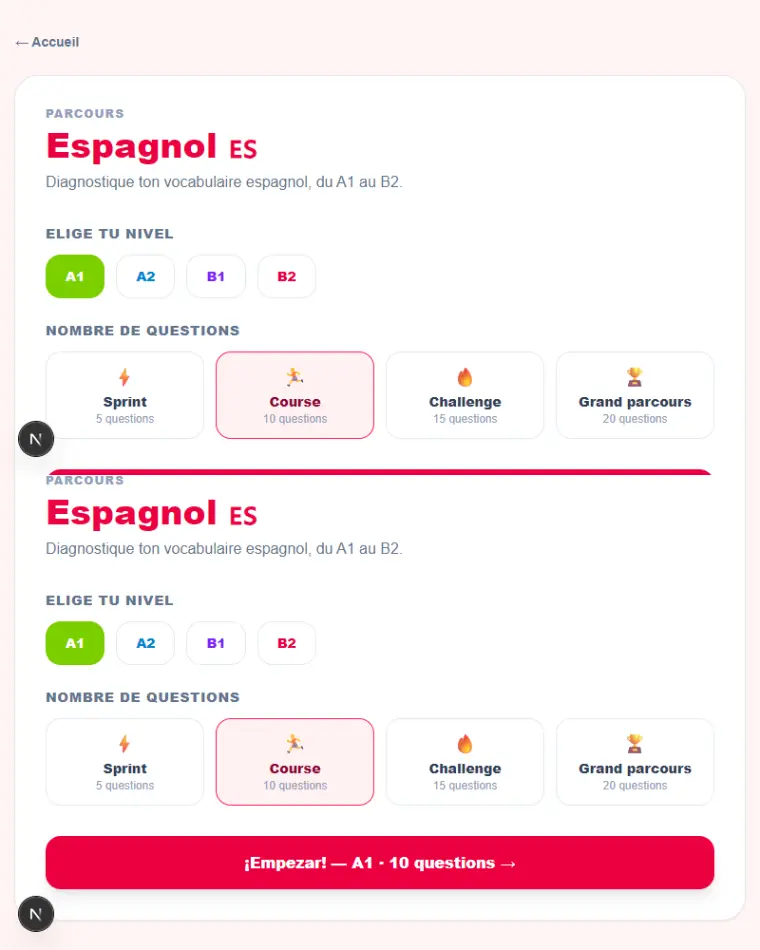
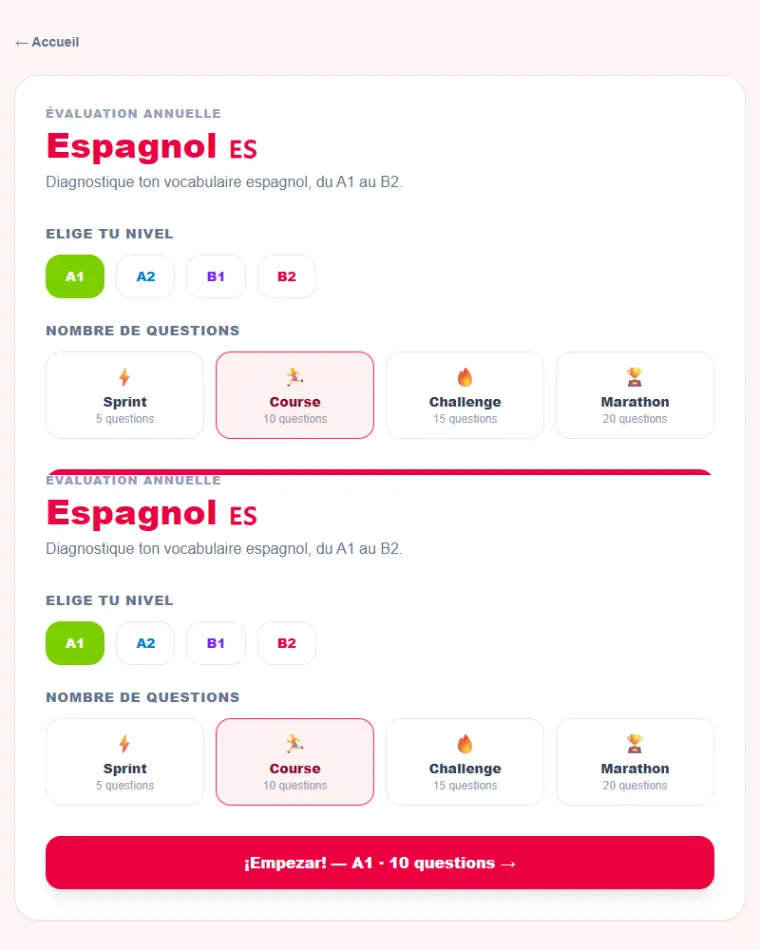
Évaluations : « parcours » n'est plus un libellé, et les cinq aperçus sont refaits
Français, anglais, espagnol et IA suivent la page de maths : « Marathon » au
lieu de « Grand parcours », « Refaire une évaluation » au lieu de « Nouveau
parcours » (« Retake the assessment » sur la page anglaise). Les aperçus de
survol des cinq cartes d'évaluation de l'accueil sont recapturés : celui de
maths montrait encore « Ton voyage mathématiques ».

diff --git a/app/parcours-espagnol/ParcoursEspagnolClient.tsx b/app/parcours-espagnol/ParcoursEspagnolClient.tsx
@@ -33,7 +33,7 @@ const questionCountOptions = [
   { value: 5,  label: "Sprint",         emoji: "⚡", description: "5 questions" },
   { value: 10, label: "Course",         emoji: "🏃", description: "10 questions" },
   { value: 15, label: "Challenge",      emoji: "🔥", description: "15 questions" },
-  { value: 20, label: "Grand parcours", emoji: "🏆", description: "20 questions" },
+  { value: 20, label: "Marathon", emoji: "🏆", description: "20 questions" },
 ] as const;
 
 type QuestionCount = (typeof questionCountOptions)[number]["value"];
@@ -376,7 +376,7 @@ export default function ParcoursEspagnolClient() {
             onClick={resetParcours}
             className="rounded-2xl bg-white px-5 py-3 text-sm font-black text-slate-800 ring-1 ring-slate-200 hover:bg-slate-50 transition"
           >
-            Nouveau parcours
+            Refaire une évaluation
           </button>
           <Link
             href={`/coach-ia/espagnol?niveau=${niveau}`}

diff --git a/app/parcours-english-maths/ParcoursEnglishClient.tsx b/app/parcours-english-maths/ParcoursEnglishClient.tsx
@@ -33,7 +33,7 @@ const questionCountOptions = [
   { value: 5,  label: "Sprint",        emoji: "⚡", description: "5 questions" },
   { value: 10, label: "Course",        emoji: "🏃", description: "10 questions" },
   { value: 15, label: "Challenge",     emoji: "🔥", description: "15 questions" },
-  { value: 20, label: "Grand parcours", emoji: "🏆", description: "20 questions" },
+  { value: 20, label: "Marathon", emoji: "🏆", description: "20 questions" },
 ] as const;
 
 type QuestionCount = (typeof questionCountOptions)[number]["value"];
@@ -376,7 +376,7 @@ export default function ParcoursEnglishClient() {
             onClick={resetParcours}
             className="rounded-2xl bg-white px-5 py-3 text-sm font-black text-slate-800 ring-1 ring-slate-200 hover:bg-slate-50 transition"
           >
-            New parcours
+            Retake the assessment
           </button>
           <Link
             href={`/coach-ia/english-maths?niveau=${niveau}`}

diff --git a/app/parcours-ia/ParcoursIaClient.tsx b/app/parcours-ia/ParcoursIaClient.tsx
@@ -35,7 +35,7 @@ const questionCountOptions = [
   { value: 5,  label: "Sprint",         emoji: "⚡", description: "5 questions" },
   { value: 10, label: "Course",         emoji: "🏃", description: "10 questions" },
   { value: 15, label: "Challenge",      emoji: "🔥", description: "15 questions" },
-  { value: 20, label: "Grand parcours", emoji: "🏆", description: "20 questions" },
+  { value: 20, label: "Marathon", emoji: "🏆", description: "20 questions" },
 ] as const;
 
 type QuestionCount = (typeof questionCountOptions)[number]["value"];
@@ -373,7 +373,7 @@ export default function ParcoursIaClient() {
             onClick={resetParcours}
             className="rounded-2xl bg-white px-5 py-3 text-sm font-black text-slate-800 ring-1 ring-slate-200 hover:bg-slate-50 transition"
           >
-            Nouveau parcours
+            Refaire une évaluation
           </button>
           <Link
             href={`/coach-ia/ia?classe=pix-${niveau}`}

diff --git a/app/parcours-francais/ParcoursFrancaisClient.tsx b/app/parcours-francais/ParcoursFrancaisClient.tsx
@@ -57,7 +57,7 @@ const questionCountOptions = [
   { value: 5,  label: "Sprint",         emoji: "⚡", description: "5 questions" },
   { value: 10, label: "Course",         emoji: "🏃", description: "10 questions" },
   { value: 15, label: "Challenge",      emoji: "🔥", description: "15 questions" },
-  { value: 20, label: "Grand parcours", emoji: "🏆", description: "20 questions" },
+  { value: 20, label: "Marathon", emoji: "🏆", description: "20 questions" },
 ] as const;
 
 type QuestionCount = (typeof questionCountOptions)[number]["value"];
@@ -441,7 +441,7 @@ export default function ParcoursFrancaisClient() {
             onClick={resetParcours}
             className="rounded-2xl bg-white px-5 py-3 text-sm font-black text-slate-800 ring-1 ring-slate-200 hover:bg-slate-50 transition"
           >
-            Nouveau parcours
+            Refaire une évaluation
           </button>
           {COACH_PRET.includes(classe) && (
             <Link
